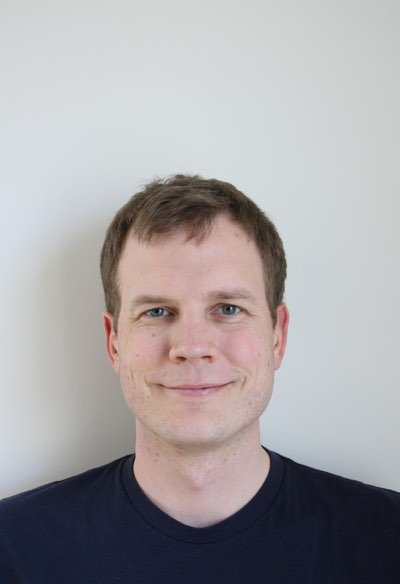
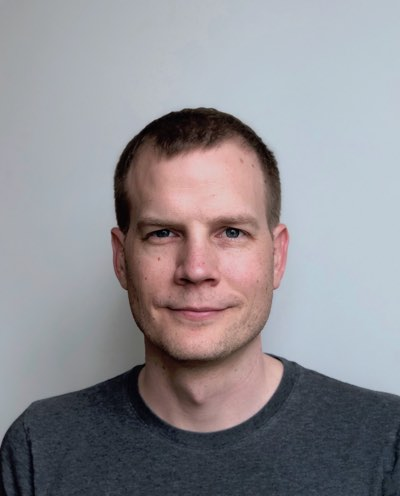
2019 Updates

diff --git a/source/timeline.html b/source/timeline.html
@@ -112,6 +112,13 @@ title: Evans Timeline
             <span><img src="images/timeline/2018/claire.jpg" alt="claire 2018" /></span>
             <span><img src="images/timeline/2018/cora.jpg" alt="cora 2018" /></span>
           </div>
+          <div class="row">
+            <span>2019</span>
+            <span><img src="images/timeline/2019/aaron.jpg" alt="aaron 2019" /></span>
+            <span><img src="images/timeline/2019/season.jpg" alt="season 2019" /></span>
+            <span><img src="images/timeline/2019/claire.jpg" alt="claire 2019" /></span>
+            <span><img src="images/timeline/2019/cora.jpg" alt="cora 2019" /></span>
+          </div>
         </div>
       </section>
 
